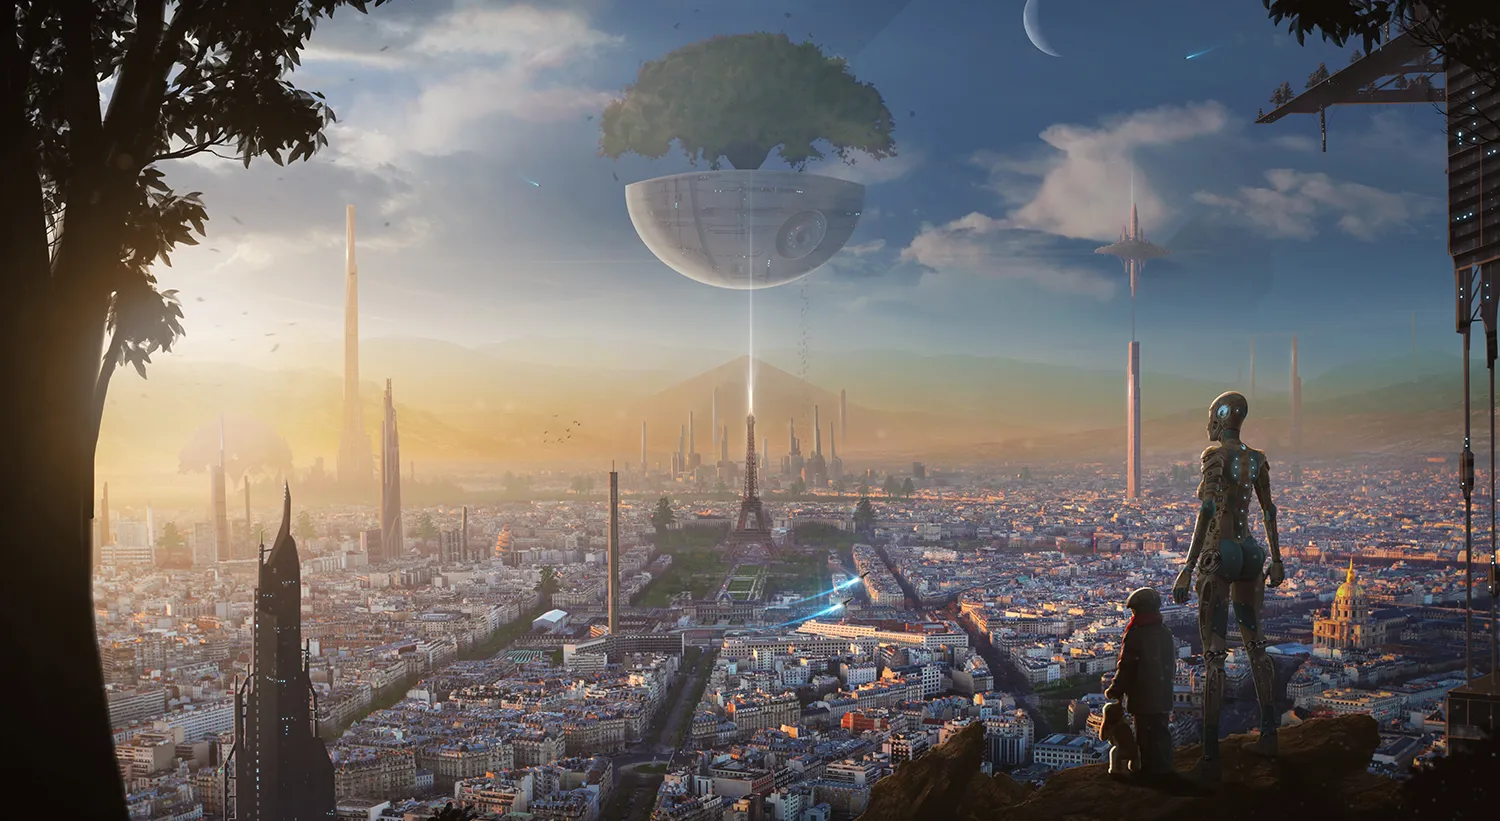
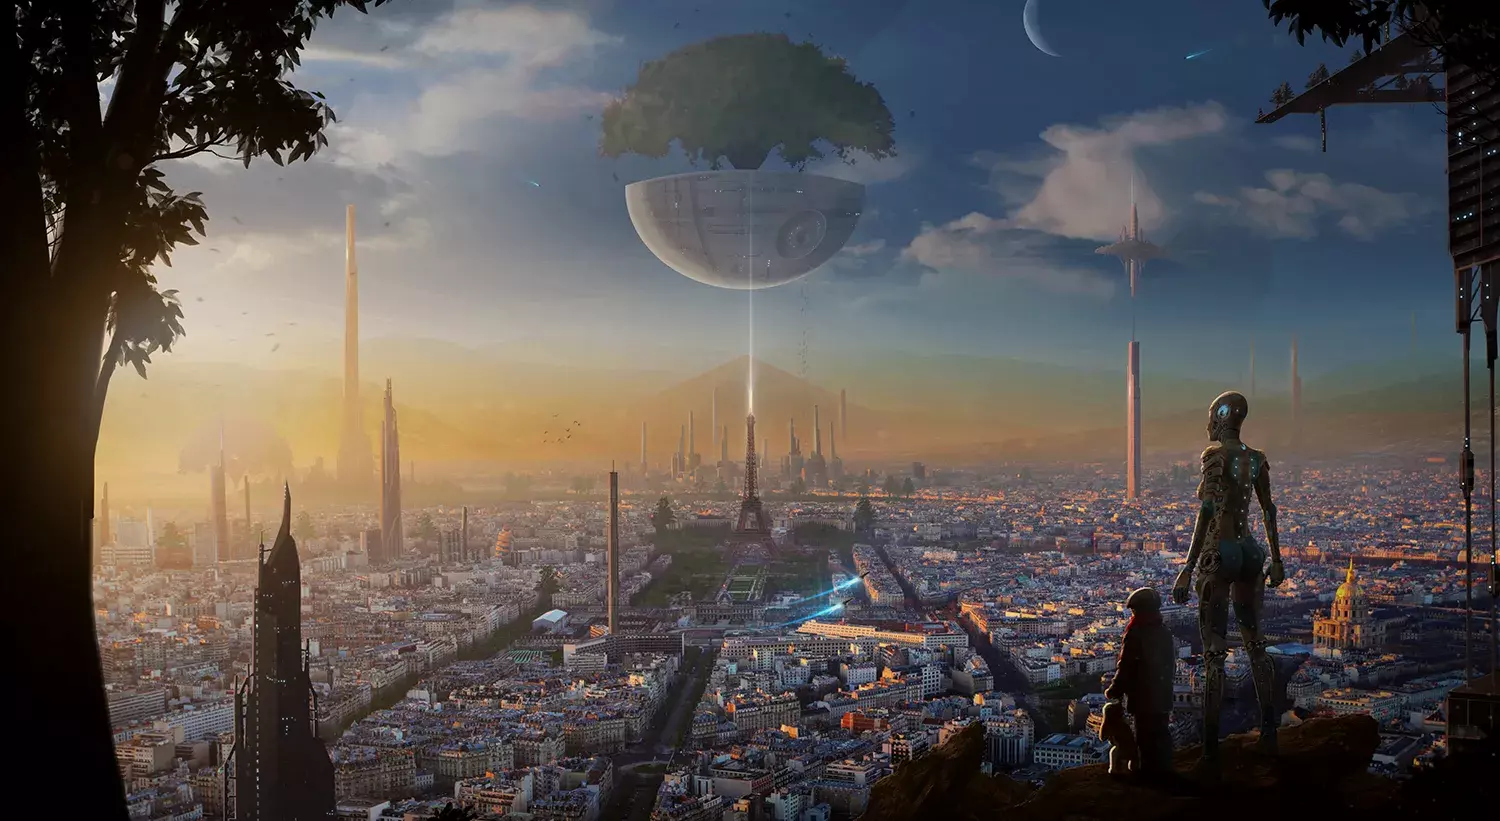
Updated the hero section UI

diff --git a/src/styles/global.css b/src/styles/global.css
@@ -6,6 +6,12 @@
   body {
     @apply bg-[#FFF] text-slate-900 dark:bg-slate-900 dark:text-[#FFF] font-inter;
   }
+  #bg-img {
+    background-image: url(/utopia-header.webp);
+    background-size: cover;
+    background-position: center;
+    background-repeat: no-repeat;
+  }
   article p {
     margin-bottom: 1rem;
   }
